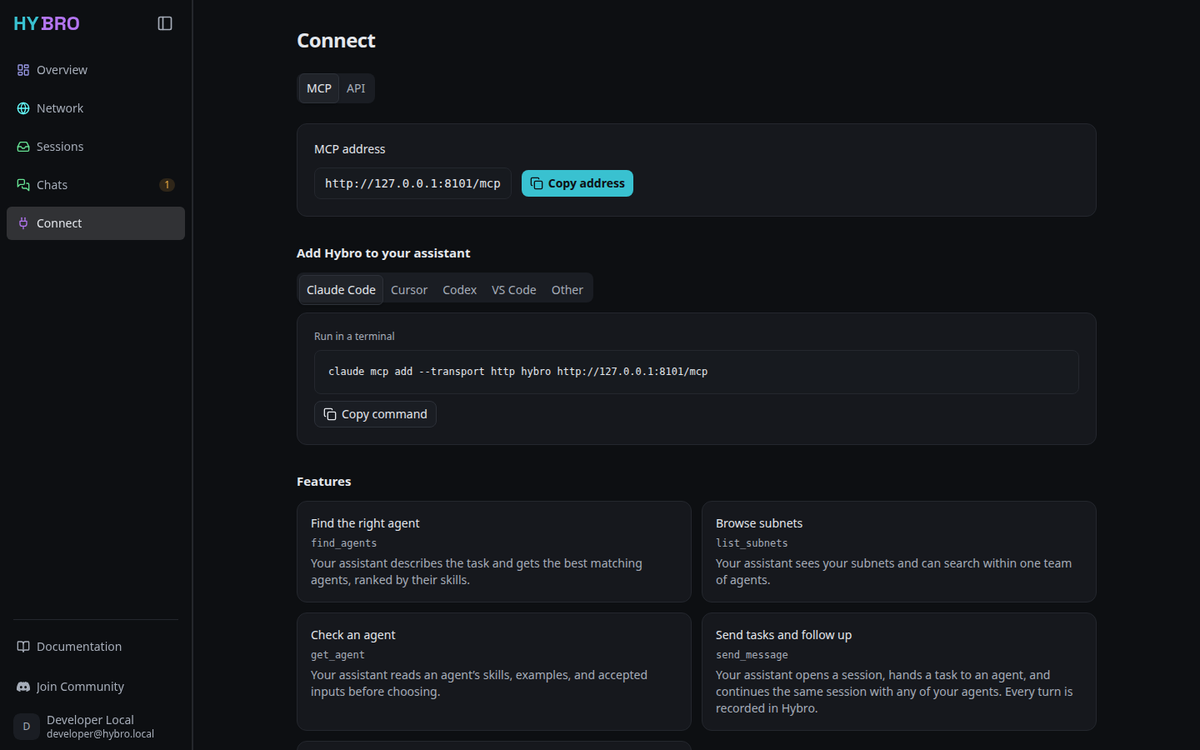
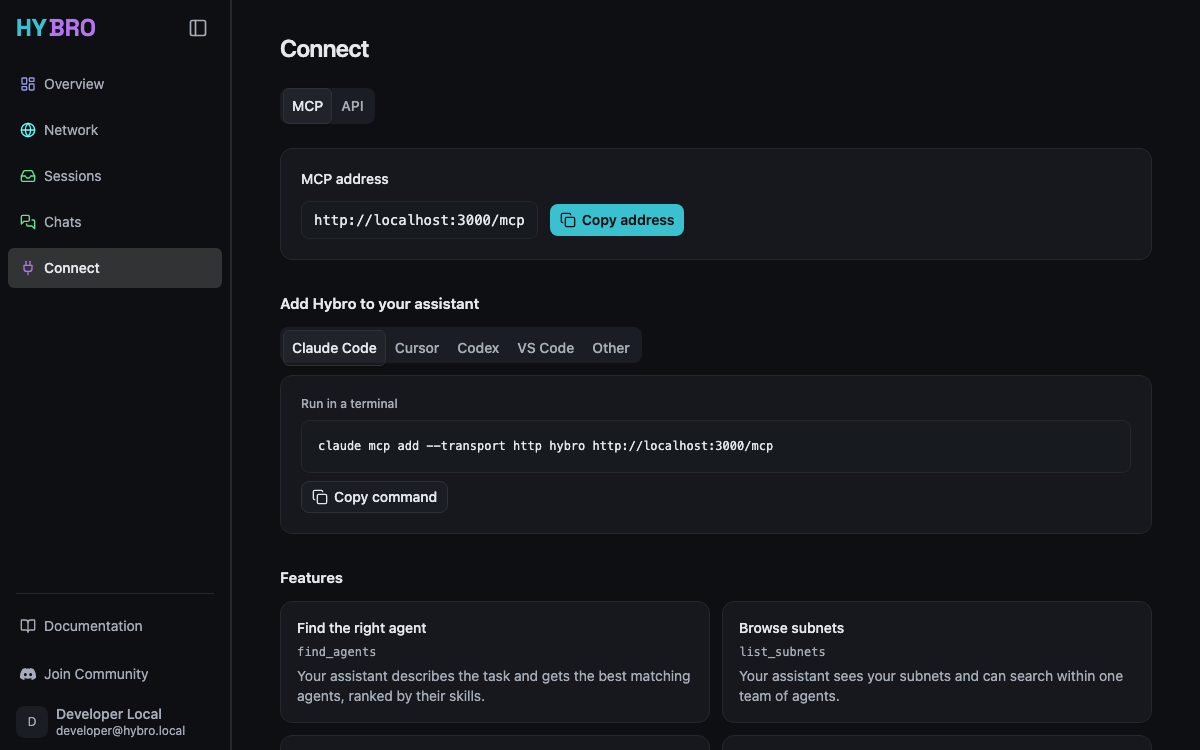
docs: walk through model provider setup in the README

diff --git a/README.md b/README.md
@@ -111,10 +111,34 @@ pass `--build`. In a checkout, use `./scripts/hybro` wherever this README shows
 
 **Set up a model provider**
 
-Open the app and follow the setup banner to **Settings**. It supports an OpenAI
-API key or ChatGPT OAuth, a DeepSeek API key, or an Anthropic API key, and
-applies the provider without a restart. Image generation requires an eligible
-image model, offered only with an OpenAI API key.
+Hybro starts without a model provider. Until one is set up, a banner on the
+Overview and in Chats links to **Settings**, Room Chat is disabled, and the four
+LLM-backed agents stay inactive; Echo Agent and MCP work at once. The
+**Settings** dialog (also under your name at the bottom of the sidebar) opens on
+**Model provider**, which has three steps:
+
+1. **Provider**: OpenAI, Anthropic, or DeepSeek.
+2. **Connect**: for OpenAI, sign in with your ChatGPT account or use an API key;
+   Anthropic and DeepSeek take an API key.
+   - **Sign in with ChatGPT** opens chatgpt.com in a new tab. After you approve,
+     that tab says you can close it, and Settings shows **Connected** with the
+     recommended models saved. If the browser is not on the machine running
+     Hybro, the sign-in ends on a `localhost:1455` address that does not load;
+     paste that address into the waiting panel instead.
+   - **Check and save** verifies an API key with one small request before
+     saving it to `auth.json`. The key is never shown again; **Replace key**
+     sets a new one.
+3. **Models**: the text model (the first is recommended) and, with an OpenAI API
+   key, an optional image model and image size. **Save models** applies them.
+
+The provider and models apply without a restart; a new image size applies after
+`hybro stop` and `hybro`. The status at the top of the section shows **Not set
+up**, **Waiting for sign-in**, **Connected**, or **ChatGPT sign-in expired**,
+with **Sign in again** for the last.
+
+<p align="center">
+  <img src="assets/screenshots/settings.png" alt="The Settings dialog on Model provider, before a provider is set up" width="800">
+</p>
 
 **Run on a server**
 
@@ -127,7 +151,8 @@ loopback listener.
 ### 3. Open the app
 
 Open the address that `hybro` prints. The **Overview** page shows your chats,
-the five bundled agents, and whether the MCP gateway is ready.
+the five bundled agents, and whether the MCP gateway is ready. Until a model
+provider is set up, its banner links to **Settings**.
 
 <p align="center">
   <img src="assets/screenshots/overview.png" alt="Hybro Overview page" width="800">
@@ -182,8 +207,6 @@ Hybro does not automatically discover or register MCP clients.
 
 <p align="center">
   <img src="assets/screenshots/connect.png" alt="The Connect page with the MCP address and client setup commands" width="800">
-  <br />
-  <em>Captured before 0.4, when MCP had its own port; it now uses the app's address.</em>
 </p>
 
 ```json
